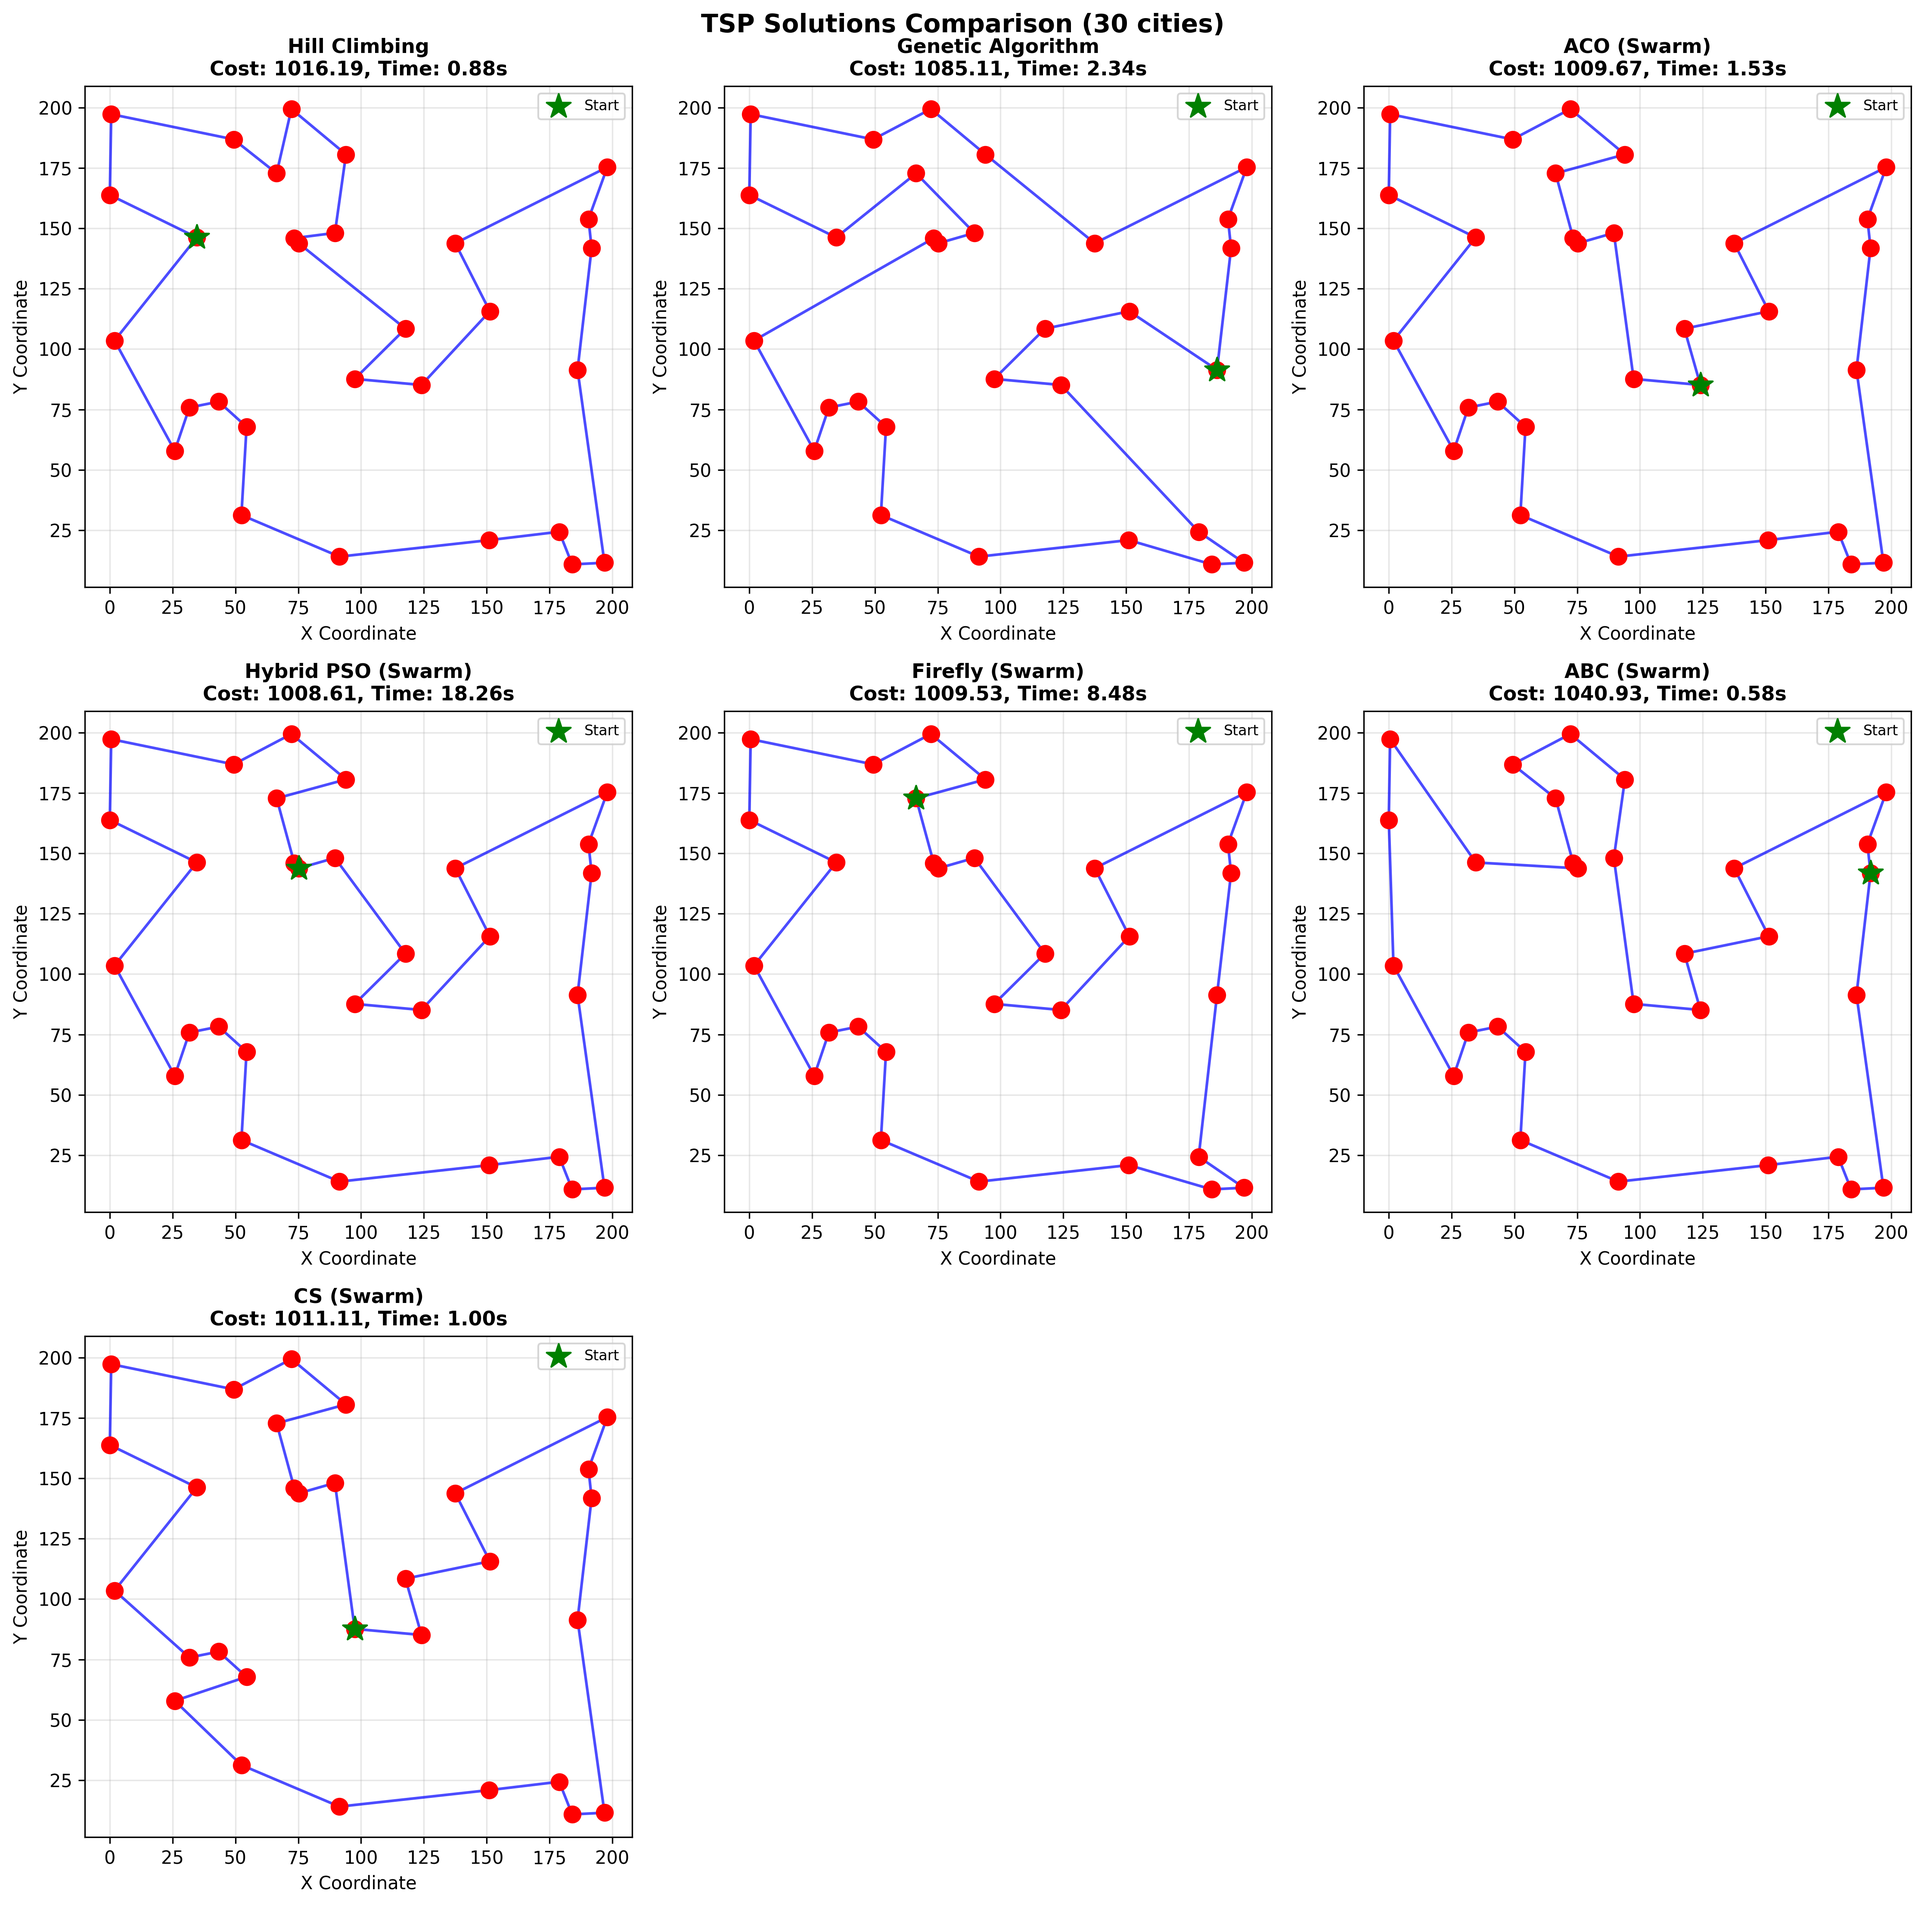
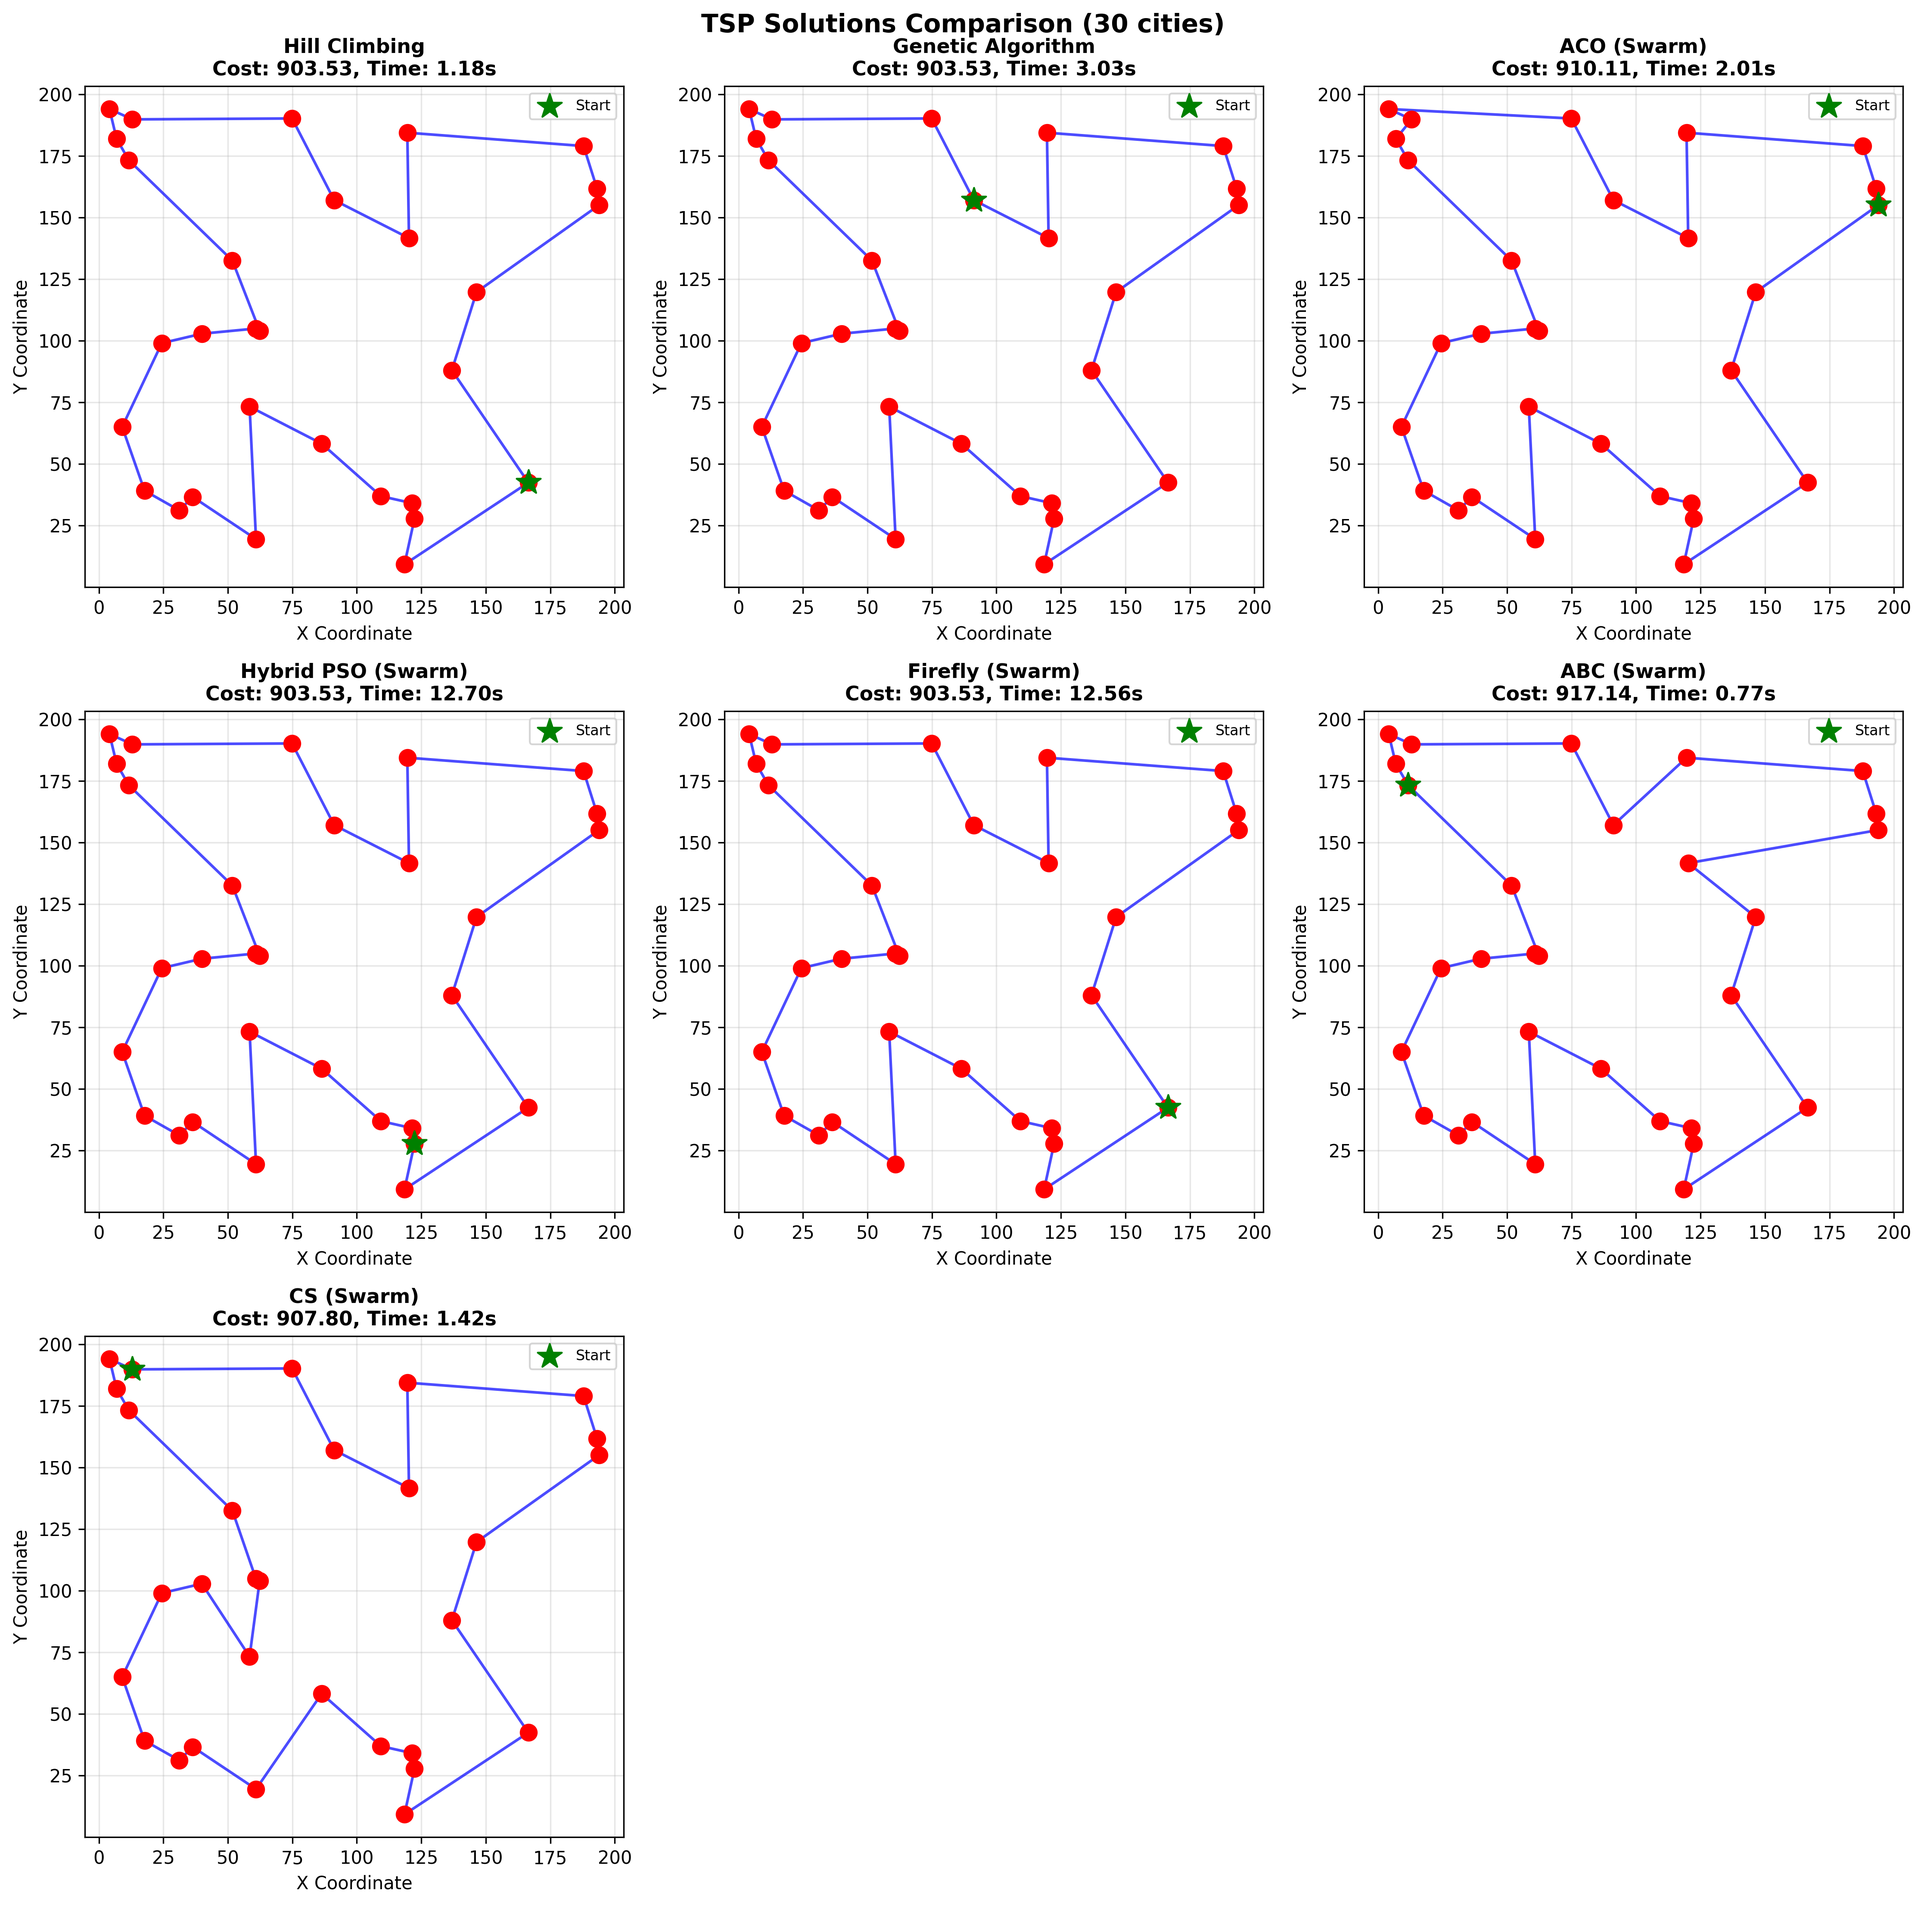
optimize  ABC continuous

diff --git a/algo3_ABC/continuous/main.py b/algo3_ABC/continuous/main.py
@@ -33,6 +33,11 @@ class ABC_Solver:
         self.pop = pop_size
         self.n_iterations = n_iterations
         self.limit = limit
+        # whether to keep archive history for visualization (can be memory heavy)
+        self.track_archive = bool(track_archive)
+        # tuning parameters to improve accuracy
+        self.selection_pressure = 2.0  # exponent on quality to sharpen selection
+        self.local_search_steps = 3    # small greedy refinements when improvement found
 
         # population archive: (pop, n_dims + 1) -> [x..., cost]
         self.archive = np.zeros((self.pop, self.n_dims + 1))
@@ -44,8 +49,25 @@ class ABC_Solver:
         self.archive_history = []
 
     def _initialize(self):
+        # Use a simple Latin-hypercube like spread to initialize population for
+        # better coverage of the search space which often improves optimizer accuracy.
+        if self.pop > 1:
+            # create evenly spaced samples per-dimension and shuffle per-dim
+            cut = np.linspace(0, 1, self.pop + 1)
+            rng = np.random.rand(self.pop, self.n_dims)
+            pts = np.zeros((self.pop, self.n_dims))
+            for d in range(self.n_dims):
+                intervals = cut[:-1] + rng[:, d] * (cut[1] - cut[0])
+                np.random.shuffle(intervals)
+                pts[:, d] = intervals
+
+            # map unit hypercube to bounds
+            sols = self.bounds_low + pts * (self.bounds_high - self.bounds_low)
+        else:
+            sols = np.random.uniform(self.bounds_low, self.bounds_high, (1, self.n_dims))
+
         for i in range(self.pop):
-            sol = np.random.uniform(self.bounds_low, self.bounds_high, self.n_dims)
+            sol = sols[i]
             cost = self.cost_function(sol)
             self.archive[i, :-1] = sol
             self.archive[i, -1] = cost
@@ -62,14 +84,24 @@ class ABC_Solver:
         np.random.seed(42)
         self._initialize()
 
-        if len(self.archive) > 0:
+        # record initial archive only when requested
+        if self.track_archive and len(self.archive) > 0:
             self.archive_history.append(self.archive.copy())
 
         for gen in range(1, self.n_iterations + 1):
+            # adaptive scale for neighborhood moves: shrink over time
+            progress = (gen - 1) / max(1, self.n_iterations)
+            move_scale = 0.5 * (1.0 - progress) + 0.05
             # Employed bees
             for i in range(self.pop):
-                k = np.random.choice(np.delete(np.arange(self.pop), i))
-                phi = np.random.uniform(-1, 1, self.n_dims)
+                # select a partner different from i (if possible)
+                if self.pop > 1:
+                    choices = np.delete(np.arange(self.pop), i)
+                    k = np.random.choice(choices)
+                else:
+                    k = i
+                # sample a controlled perturbation; scale shrinks as iterations progress
+                phi = np.random.uniform(-1, 1, self.n_dims) * move_scale
                 xi = self.archive[i, :-1]
                 xk = self.archive[k, :-1]
                 v = xi + phi * (xi - xk)
@@ -79,18 +111,45 @@ class ABC_Solver:
                     self.archive[i, :-1] = v
                     self.archive[i, -1] = v_cost
                     self.trial_counts[i] = 0
+                    # small local greedy refinement to reduce cost further
+                    for _ in range(self.local_search_steps):
+                        delta = np.random.normal(scale=0.2 * move_scale, size=self.n_dims) * (self.bounds_high - self.bounds_low)
+                        cand = np.clip(self.archive[i, :-1] + delta, self.bounds_low, self.bounds_high)
+                        cand_cost = self.cost_function(cand)
+                        if cand_cost < self.archive[i, -1]:
+                            self.archive[i, :-1] = cand
+                            self.archive[i, -1] = cand_cost
+                            # reset trial count after local improvement
+                            self.trial_counts[i] = 0
                 else:
                     self.trial_counts[i] += 1
 
             # Onlooker bees
             fitness = self.archive[:, -1]
+            # convert fitness to selection probability (higher quality -> higher prob)
             quality = 1.0 / (1.0 + fitness + 1e-12)
-            prob = quality / np.sum(quality)
+            # apply selection pressure to focus on good solutions
+            quality = np.power(quality, self.selection_pressure)
+            total_q = np.sum(quality)
+            if total_q <= 0 or not np.isfinite(total_q):
+                prob = np.full(self.pop, 1.0 / max(1, self.pop))
+            else:
+                prob = quality / total_q
 
             for _ in range(self.pop):
-                i = np.random.choice(self.pop, p=prob)
-                k = np.random.choice(np.delete(np.arange(self.pop), i))
-                phi = np.random.uniform(-1, 1, self.n_dims)
+                # select an index according to probability distribution
+                try:
+                    i = np.random.choice(self.pop, p=prob)
+                except Exception:
+                    # fallback to uniform selection
+                    i = np.random.randint(0, self.pop)
+                # choose a partner different from i when possible
+                if self.pop > 1:
+                    k_choices = np.delete(np.arange(self.pop), i)
+                    k = np.random.choice(k_choices)
+                else:
+                    k = i
+                phi = np.random.uniform(-1, 1, self.n_dims) * move_scale
                 xi = self.archive[i, :-1]
                 xk = self.archive[k, :-1]
                 v = xi + phi * (xi - xk)
@@ -100,13 +159,27 @@ class ABC_Solver:
                     self.archive[i, :-1] = v
                     self.archive[i, -1] = v_cost
                     self.trial_counts[i] = 0
+                    # local refinement
+                    for _ in range(self.local_search_steps):
+                        delta = np.random.normal(scale=0.2 * move_scale, size=self.n_dims) * (self.bounds_high - self.bounds_low)
+                        cand = np.clip(self.archive[i, :-1] + delta, self.bounds_low, self.bounds_high)
+                        cand_cost = self.cost_function(cand)
+                        if cand_cost < self.archive[i, -1]:
+                            self.archive[i, :-1] = cand
+                            self.archive[i, -1] = cand_cost
+                            self.trial_counts[i] = 0
                 else:
                     self.trial_counts[i] += 1
 
             # Scout phase
             for i in range(self.pop):
                 if self.trial_counts[i] > self.limit:
-                    new_sol = np.random.uniform(self.bounds_low, self.bounds_high, self.n_dims)
+                    # scout: restart near current best solution (more effective than uniform random)
+                    # get current best
+                    best_pos = self.archive[0, :-1].copy()
+                    # decreasing exploration radius
+                    sigma = (0.5 * (1.0 - progress) + 0.01) * (self.bounds_high - self.bounds_low)
+                    new_sol = np.clip(best_pos + np.random.normal(scale=sigma, size=self.n_dims), self.bounds_low, self.bounds_high)
                     self.archive[i, :-1] = new_sol
                     self.archive[i, -1] = self.cost_function(new_sol)
                     self.trial_counts[i] = 0
@@ -114,7 +187,7 @@ class ABC_Solver:
             # Update best and archive
             self._sort_archive()
             self.convergence_history.append(self.best_cost)
-            if len(self.archive_history) >= 0:
+            if self.track_archive:
                 self.archive_history.append(self.archive.copy())
 
             if gen % 50 == 0:
